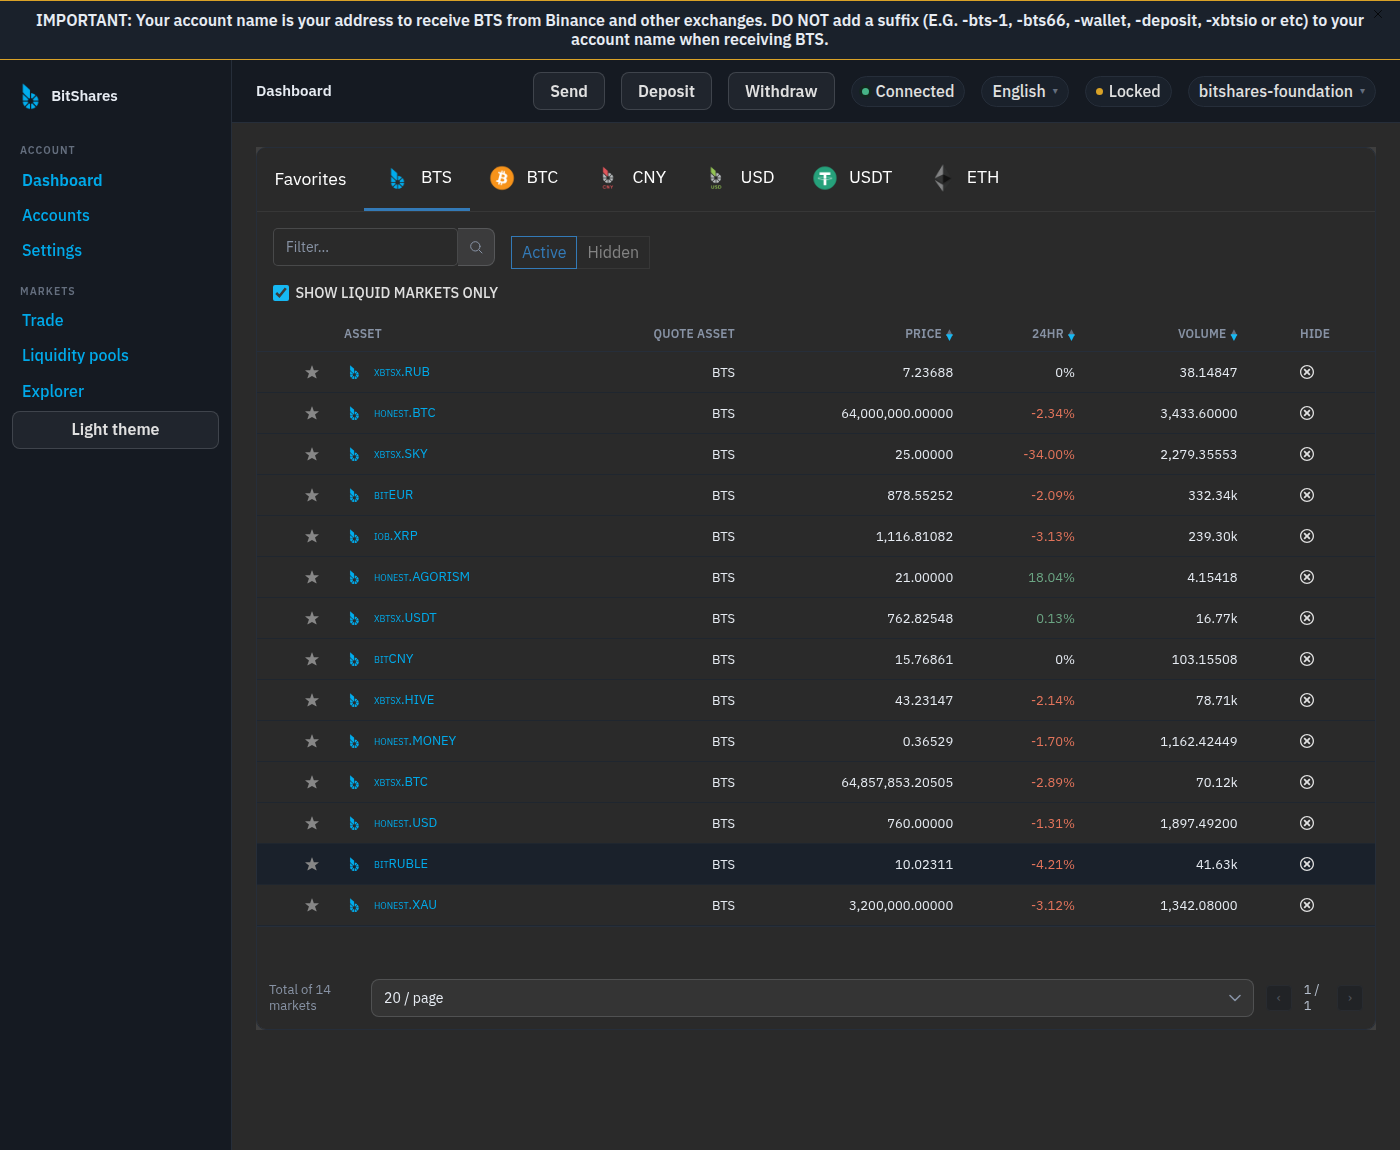
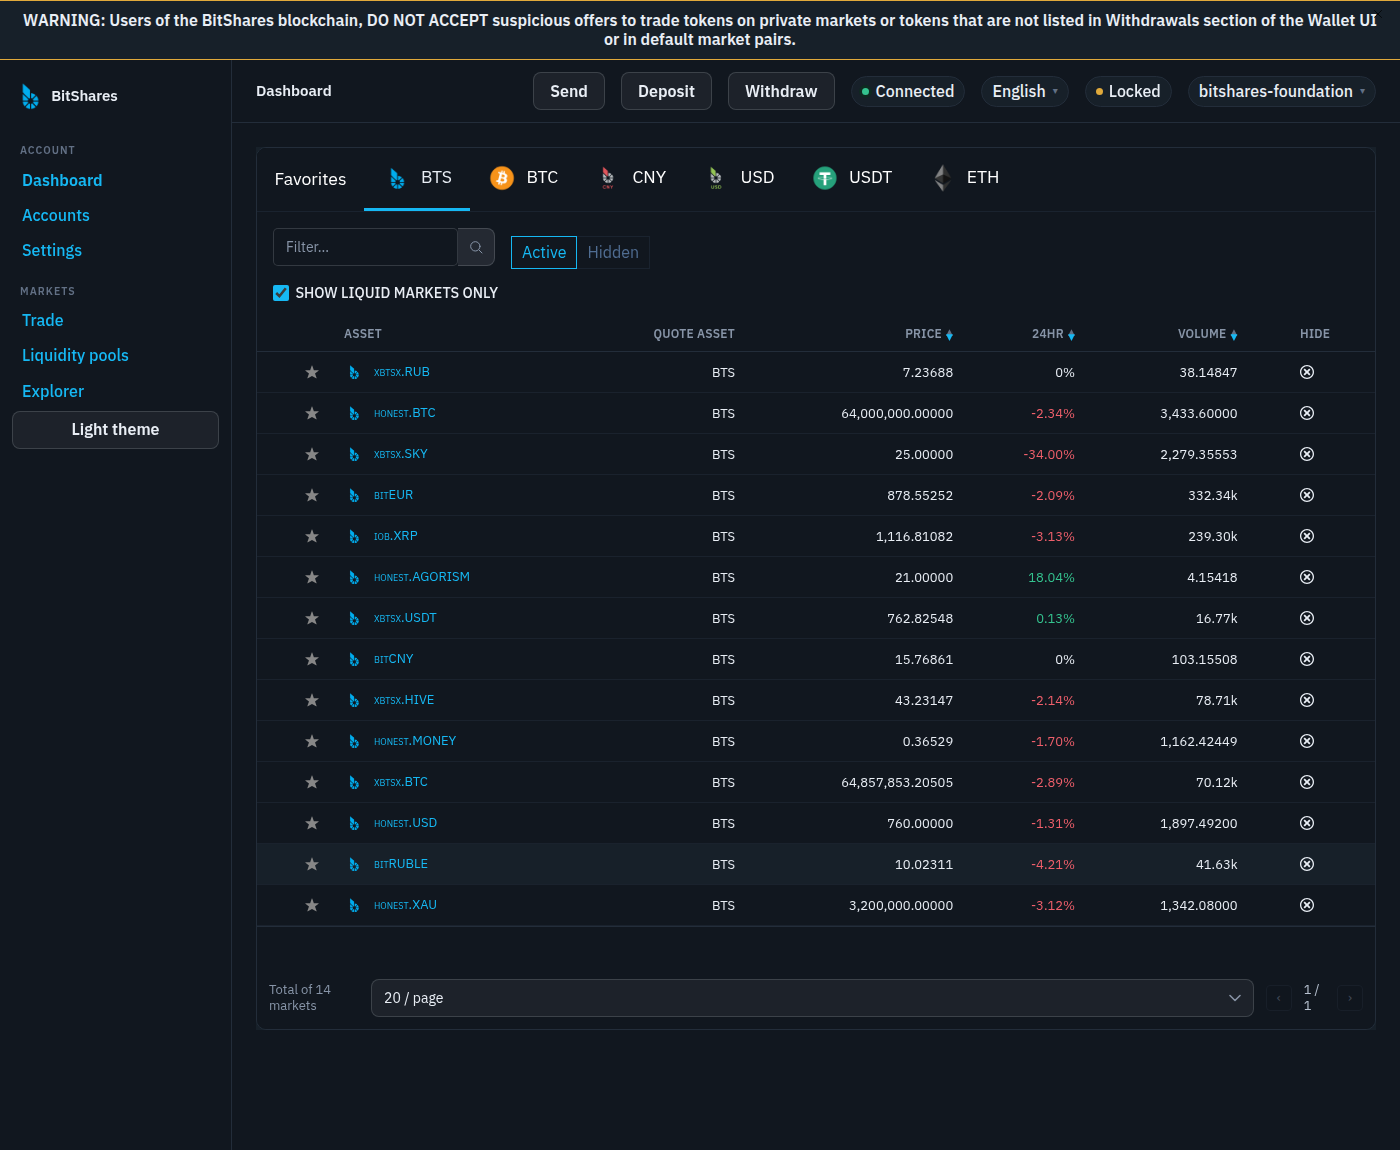
Refresh the post and screenshots for the new palette
Ten images (the Telegram album limit): dashboards, the three themes, the
palette card, and before/after pairs for the wallet form, permissions,
settings, send dialog and login dialog, plus the wallet delete/restore pages.
The post text now leads with the colour work. Still not published anywhere.

Claude-Session: https://claude.ai/code/session_01QYvkWsMhKNiHPtFi6qguet

diff --git a/docs/telegram-post/POST.md b/docs/telegram-post/POST.md
@@ -2,9 +2,9 @@
 
 Ready-to-paste material for a manual Telegram post. Nothing here has been
 published anywhere. Images are in [`screenshots/`](screenshots/); attach them
-as an album in the order below (Telegram allows 10 items per album).
+as one album in the order below (Telegram allows 10 items per album).
 
-## Post text (long version, about 1,500 characters)
+## Post text (long version, about 1,900 characters)
 
 ```
 🚀 BitShares UI: a fresh look for the wallet
@@ -14,22 +14,29 @@ one screen at a time, without touching how keys and transactions are handled.
 
 What's new in this round:
 
-✨ One typeface everywhere: IBM Plex Sans, self-hosted, so the desktop app
-doesn't need the network just to draw its own UI. A computed-style check over
-9 screens found about 1,350 visible text elements, every one in IBM Plex.
+🎨 One colour palette. The new shell was navy while the old screens inside it
+were neutral gray. Now everything draws from a single palette: cool slate
+neutrals stepped by elevation, one cyan accent, an emerald/rose pair for
+up/down. Dark, light and midnight all follow it. Before: 48% of the painted
+area on the dark screens was plain gray; now it is 0%. The palette's text and
+status colours are checked for WCAG contrast in the test suite.
+
+✨ One typeface: IBM Plex Sans, self-hosted, so the desktop app doesn't need
+the network just to draw its own UI. A computed-style check over 9 screens
+found about 1,350 visible text elements, every one in IBM Plex.
 
 🎛 Modernized buttons and input fields: 38 px controls, rounded corners, soft
-translucent fills, a clear focus ring, consistent in dark and light theme and
-across old and new screens.
+translucent fills, a clear focus ring, a nicer switch, consistent shadows.
 
 ⚙ Under the hood: React 18, TypeScript for most of the code base, Redux
 Toolkit state, and the old antd dependency is gone for good.
 
 🛠 Tested against the real app, not just unit tests: the production build was
-driven in a browser against live chain data. That found and fixed two crashes
-(opening the unlock dialog, and the dashboard market table) and confirmed the
-local wallet lifecycle end to end: create, back up, delete, restore from the
-backup file, unlock. A wrong password is rejected, the right one unlocks.
+driven in a browser against live chain data. That found and fixed two
+crashes (opening the unlock dialog, the dashboard market table) plus a few
+layout bugs, and confirmed
+the local wallet lifecycle end to end: create, back up, delete, restore from
+the backup file, unlock. A wrong password is rejected, the right one unlocks.
 
 Still in progress: the insides of several legacy screens (Exchange, Account)
 are migrated step by step. Work lives on a branch and is not a release yet.
@@ -39,14 +46,16 @@ Code: https://github.com/pi314x/bitshares-ui/tree/claude/bitshares-ui-migration-
 #BitShares #BTS #DEX #OpenSource #Wallet
 ```
 
-## Short caption (fits Telegram's 1,024-character media caption, about 600)
+## Short caption (fits Telegram's 1,024-character media caption, about 700)
 
 ```
-🚀 BitShares UI refresh: IBM Plex everywhere + modernized buttons and inputs
+🚀 BitShares UI refresh: one palette, one typeface, modern controls
 
-• One typeface (IBM Plex Sans, self-hosted): every visible text element
-  (about 1,350) across 9 screens checked is set in IBM Plex
-• New buttons and fields: rounded, translucent, clear focus ring, dark + light
+• One colour palette for the shell and the old screens: gray panels 48% ->
+  0% of the painted area, dark / light / midnight, palette contrast tested
+• IBM Plex Sans (self-hosted): every visible text element (about 1,350)
+  across 9 screens checked is set in IBM Plex
+• New buttons, fields, switch: rounded, translucent, clear focus ring
 • React 18, TypeScript, Redux Toolkit, antd removed
 • Verified in the real app with live chain data, including wallet
   create / backup / delete / restore / unlock
@@ -63,14 +72,18 @@ https://github.com/pi314x/bitshares-ui/tree/claude/bitshares-ui-migration-pu5y14
 |---|------|-------------------|
 | 1 | `01-dashboard-dark.png` | Dashboard, dark theme, live market data |
 | 2 | `02-dashboard-light.png` | Same screen, light theme |
-| 3 | `03-before-after-send-dialog.png` | Send dialog: before / after (fields, selects, buttons) |
-| 4 | `04-before-after-settings.png` | Settings: before / after |
-| 5 | `05-before-after-wallet-form.png` | Create local wallet: before / after (note the gap between the buttons) |
-| 6 | `06-before-after-login-light.png` | Login dialog, light theme: before / after |
-| 7 | `07-wallet-delete-and-restore.png` | Delete and restore a local wallet from a backup file |
+| 3 | `03-three-themes.png` | Dark, light and midnight share one palette |
+| 4 | `04-palette.png` | The palette: one source of truth for every colour |
+| 5 | `05-before-after-wallet-form.png` | Create local wallet: before / after (gray panel and flat fields vs. the new surface, bordered fields, spaced buttons) |
+| 6 | `06-before-after-permissions.png` | Account permissions: before / after |
+| 7 | `07-before-after-settings.png` | Settings: before / after |
+| 8 | `08-before-after-send-dialog.png` | Send dialog: before / after (fields, selects, buttons) |
+| 9 | `09-before-after-login-light.png` | Login dialog, light theme: before / after |
+| 10 | `10-wallet-delete-and-restore.png` | Delete and restore a local wallet from a backup file |
 
 "Before" is the previous build of this branch (shell already migrated, still
-with Roboto and the classic controls). It is not the original upstream release.
+with Roboto, neutral-gray legacy panels and the classic controls). It is not
+the original upstream release.
 
 ## Notes for whoever posts this
 
@@ -82,11 +95,14 @@ with Roboto and the classic controls). It is not the original upstream release.
 - The Exchange screen is intentionally not included: its price chart is the
   licensed TradingView charting library, which is not part of the repository,
   so a local build shows an empty chart area.
-- The numbers in the post are reproducible: the font check is
-  `python3 scripts/smoke-boot.py <dist> --fonts --routes ...` (a computed-style
-  census over `/`, the market page, settings, wallet creation, account
-  creation, permissions, explorer assets and blocks, and node settings; the
-  exact element count moves a little with live data); the wallet flow is
-  described in `docs/UI_MIGRATION_PLAN.md` section 7.6.
+- The numbers in the post are reproducible with
+  `python3 scripts/smoke-boot.py <dist> --fonts --colors --routes ...`: it
+  walks the visible text elements (fonts) and measures the share of painted
+  area that is a pure gray (colours) on `/`, the market page, settings, wallet
+  creation, account creation, permissions, explorer assets and blocks, and node
+  settings. The exact element count moves a little with live data. "48% -> 0%"
+  compares the previous build with the current one on the dark theme; the
+  method and the midnight/light figures are in `docs/UI_MIGRATION_PLAN.md`
+  sections 7.6 and 7.7.
 - Do not describe this as a release or a security audit. It is a UI migration
   in progress, and wallet code paths were changed only where a crash required it.
